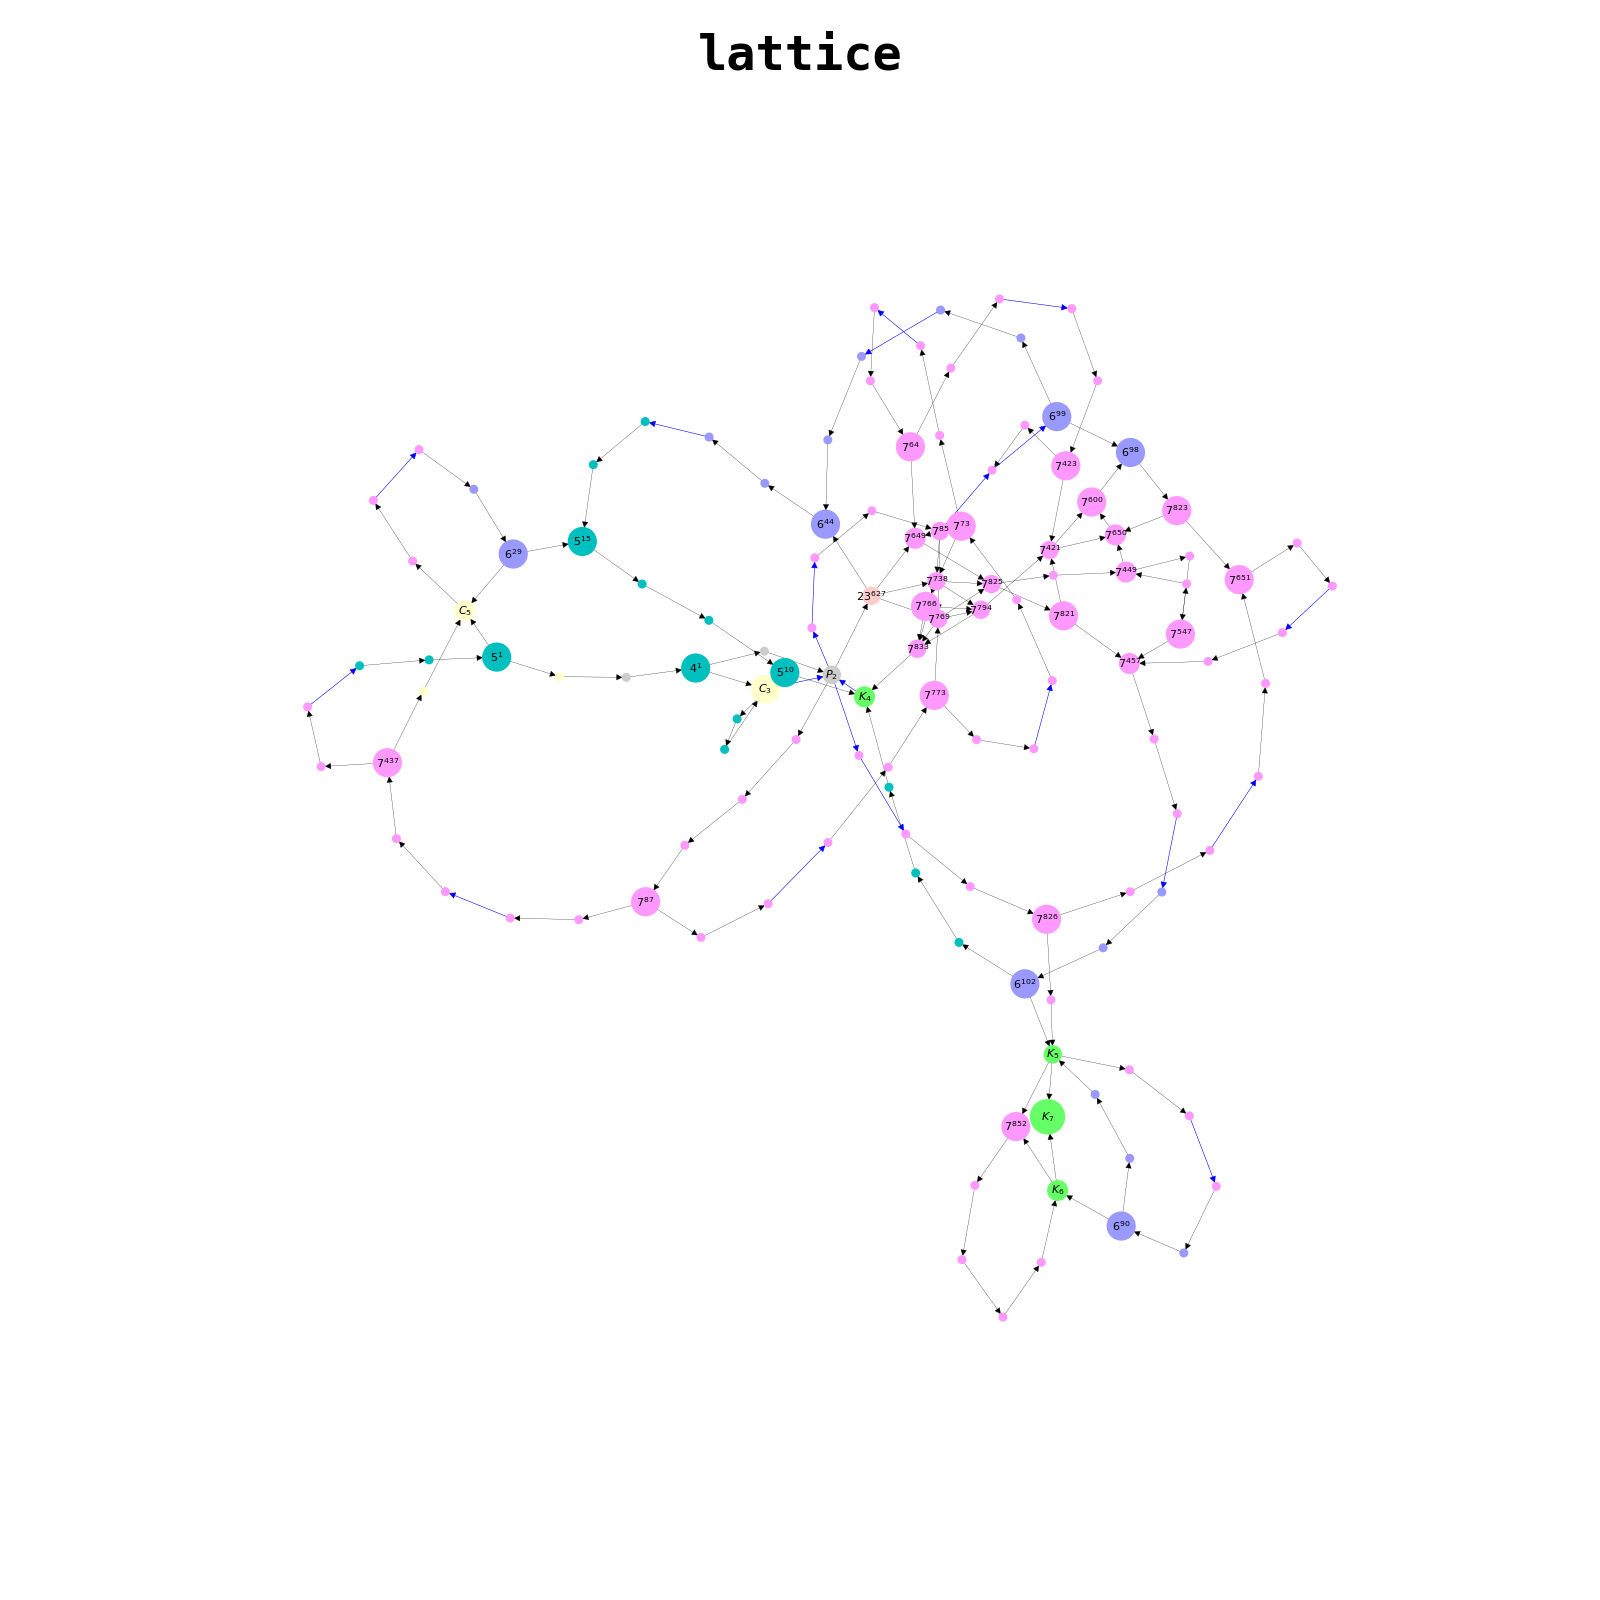
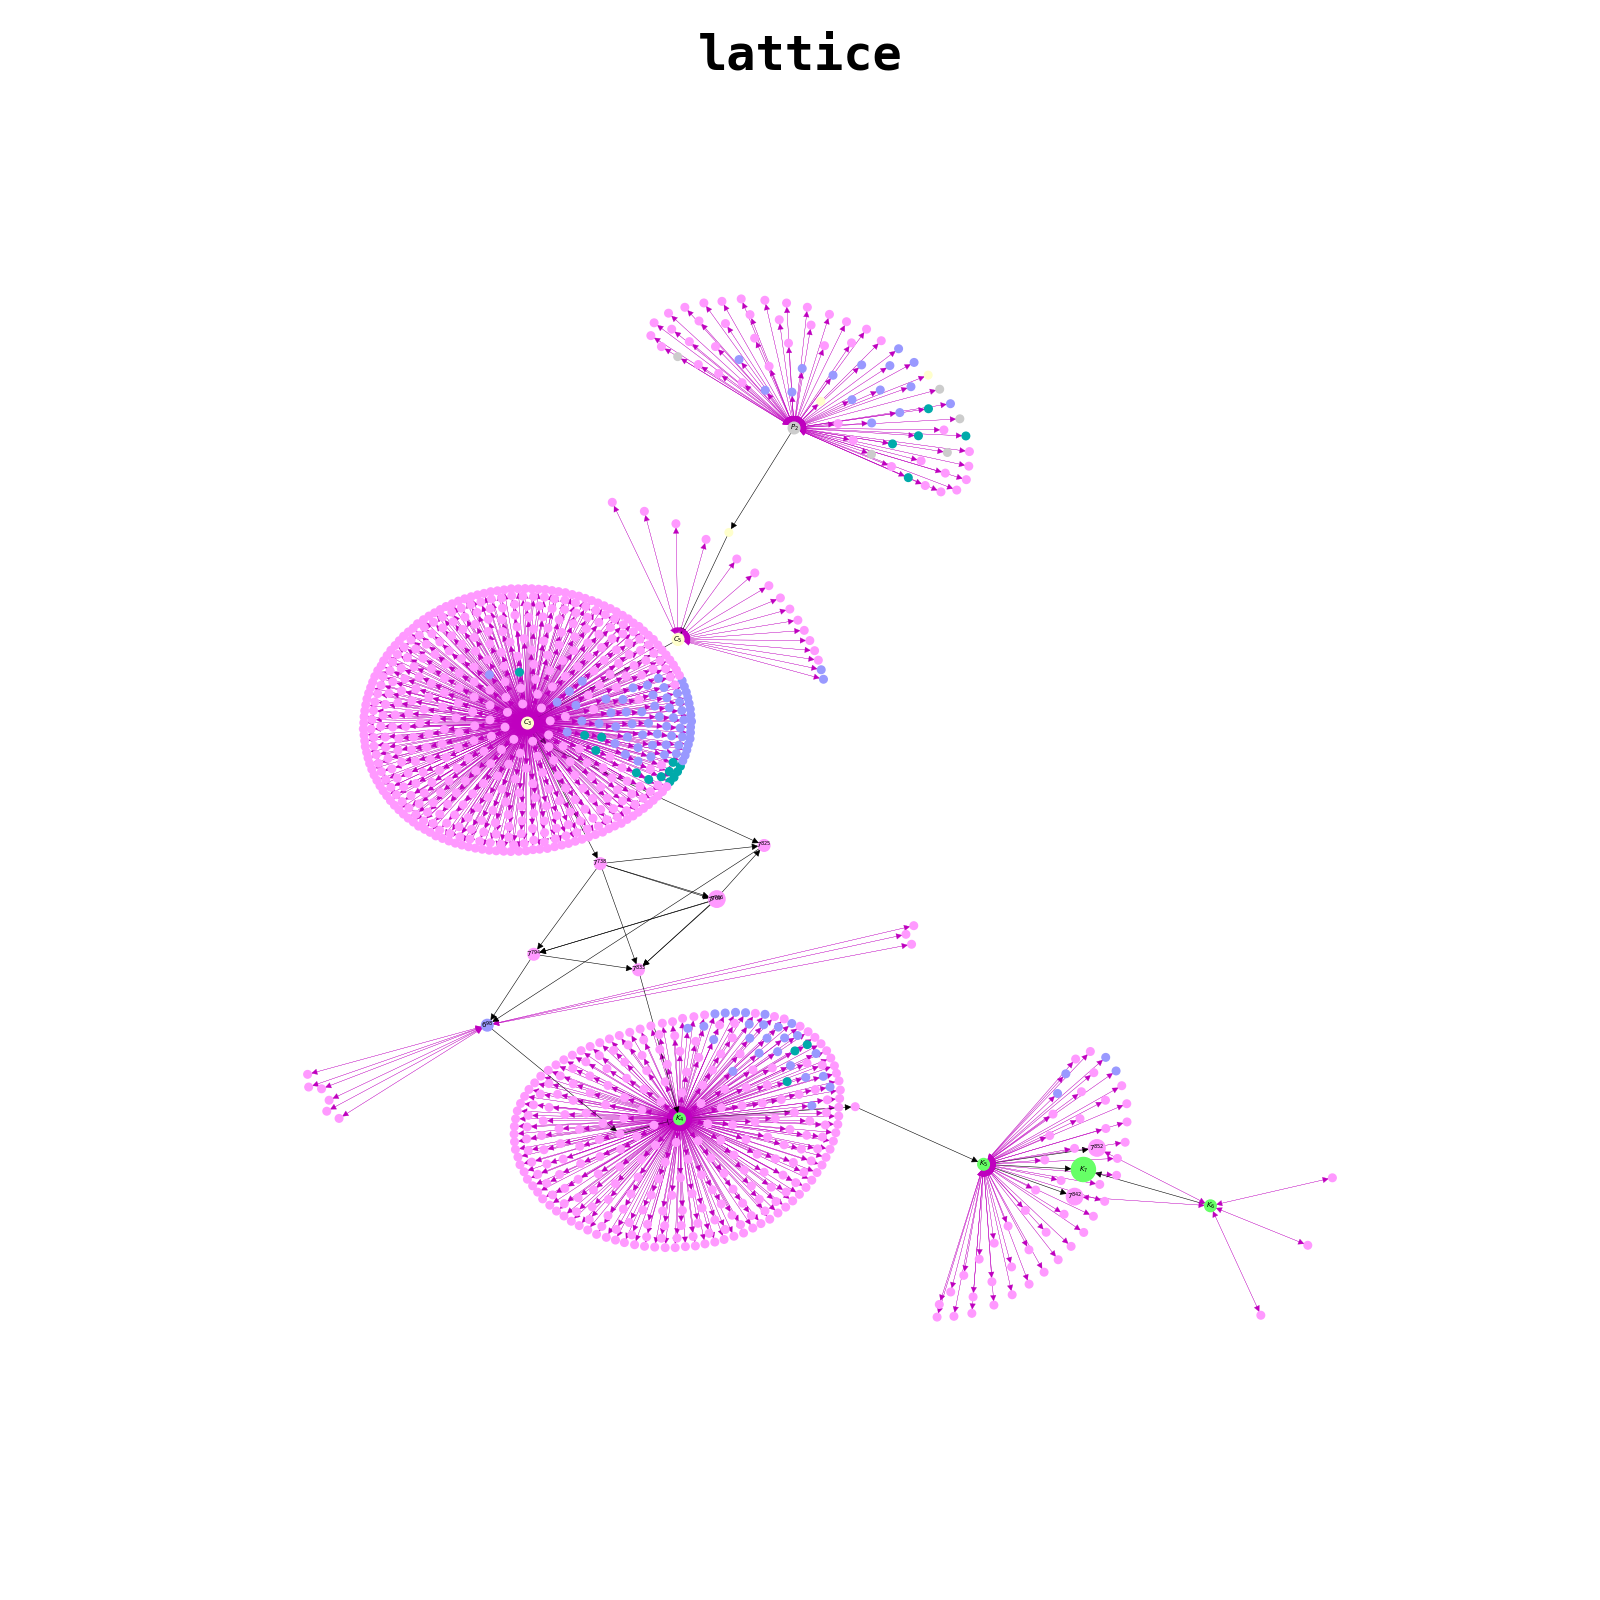
minor updates

diff --git a/lattice_utils.py b/lattice_utils.py
@@ -158,37 +158,37 @@ def node_color_func(label):
     return '#FFCCCC'
 
 
-def filter_important_nodes(g, label):
-    # fname = label
-    is_small = 'small_graphs' in os.path.dirname(label)
-    if not is_small and g.out_degree(label) == 1:
-        return False
-    #     return True
-    # n = int(os.path.basename(label).split('_')[1])
-    # if n <= 4:
-    #     return True
-    # with open(fname, 'r') as f:
-    #     G = deserialize_graph(f.read())
-        # if is_path(G) or is_complete(G):
-        #     return True
-    if g.in_degree(label) == 1 and g.out_degree(label) == 1:
-        return False
-    return True
+# def filter_important_nodes(g, label):
+#     # fname = label
+#     is_small = 'small_graphs' in os.path.dirname(label)
+#     if not is_small and g.out_degree(label) == 1:
+#         return False
+#     #     return True
+#     # n = int(os.path.basename(label).split('_')[1])
+#     # if n <= 4:
+#     #     return True
+#     # with open(fname, 'r') as f:
+#     #     G = deserialize_graph(f.read())
+#         # if is_path(G) or is_complete(G):
+#         #     return True
+#     if g.in_degree(label) == 1 and g.out_degree(label) == 1:
+#         return False
+#     return True
 
 
-def filter_important_nodes_neighborhood(g, nodelist, ndm):
-    max_distance = 2
-    for nd in nodelist:
-        if not nx.has_path(g, ndm, nd):
-            continue
-        if nx.shortest_path_length(g, ndm, nd) <= max_distance:
-            return True
-    for nd in nodelist:
-        if not nx.has_path(g, nd, ndm):
-            continue
-        if nx.shortest_path_length(g, nd, ndm) <= max_distance:
-            return True
-    return False
+# def filter_important_nodes_neighborhood(g, nodelist, ndm):
+#     max_distance = 2
+#     for nd in nodelist:
+#         if not nx.has_path(g, ndm, nd):
+#             continue
+#         if nx.shortest_path_length(g, ndm, nd) <= max_distance:
+#             return True
+#     for nd in nodelist:
+#         if not nx.has_path(g, nd, ndm):
+#             continue
+#         if nx.shortest_path_length(g, nd, ndm) <= max_distance:
+#             return True
+#     return False
 
 
 def plot_lattice(g, filename, **kwargs):
@@ -204,26 +204,27 @@ def plot_lattice(g, filename, **kwargs):
     new_g = g
 
     if len(nodelist) > 100:
-        nodelist = [nd for nd in g.nodes() if filter_important_nodes(g, nd)]
-        print('filtered significant nodes')
-        nodelist_neighborhood = [ndm for ndm in g.nodes()
-                                 if ndm in nodelist or (filter_important_nodes_neighborhood(g, nodelist, ndm)
-                                    and 'small_graphs' in ndm)]
+        nodelist = [nd for nd in g.nodes() if g.in_degree(nd) != 1 or g.out_degree(nd) != 1]
+        # nodelist = [nd for nd in g.nodes() if filter_important_nodes(g, nd)]
+        # print('filtered significant nodes')
+        # nodelist_neighborhood = [ndm for ndm in g.nodes()
+        #                          if ndm in nodelist or (filter_important_nodes_neighborhood(g, nodelist, ndm)
+        #                             and 'small_graphs' in ndm)]
 
-        new_g = g
-        for e in g.edges():
-            u, v = e
-            if v in nodelist_neighborhood:
-                continue
-            if new_g.has_edge(u, v):
-                new_g = nx.contracted_edge(new_g, e)
-        print('reduced insignificant loops')
+#         new_g = g
+#         for e in g.edges():
+#             u, v = e
+#             if v in nodelist_neighborhood:
+#                 continue
+#             if new_g.has_edge(u, v):
+#                 new_g = nx.contracted_edge(new_g, e)
+        # print('reduced insignificant loops')
 
     no_nodes = len(nodelist_neighborhood)
     fontsize = 9 - int(math.log(no_nodes, 5))
-    nodesize_min = 150 - 20 * int(math.log(no_nodes, 5))
-    nodesize_max = 700 - 100 * int(math.log(no_nodes, 5))
-    nodesize_step = 200 - 10 * int(math.log(no_nodes, 5))
+    # nodesize_min = 150 - 20 * int(math.log(no_nodes, 5))
+    # nodesize_max = 700 - 100 * int(math.log(no_nodes, 5))
+    # nodesize_step = 200 - 10 * int(math.log(no_nodes, 5))
     nx.draw_networkx(new_g,
                      arrows=True,
                      # pos=graphviz_layout(new_g),
@@ -238,8 +239,9 @@ def plot_lattice(g, filename, **kwargs):
                      alpha=1.,
                      node_color=[node_color_func(nd) for nd in nodelist_neighborhood],
                      # node_size=[500 for nd in nodelist_neighborhood],
-                     node_size=[(max(nodesize_min, nodesize_max - nodesize_step * (new_g.degree(nd) - 2)) if nd in nodelist else 30)
-                                for nd in nodelist_neighborhood],
+                     node_size = [(500 if nd in nodelist else 30) for nd in nodelist_neighborhood],
+                     # node_size=[(max(nodesize_min, nodesize_max - nodesize_step * (new_g.degree(nd) - 2)) if nd in nodelist else 30)
+                     #            for nd in nodelist_neighborhood],
                      edge_color=[('m' if g.has_edge(e[1], e[0]) else 'k') if g.has_edge(e[0], e[1]) else 'b' for e in new_g.edges()],
                      width=[(0.2 if g.has_edge(e[1], e[0]) else 0.4) if g.has_edge(e[0], e[1]) else 0.4 for e in new_g.edges()],
                      arrowstyle='-|>',

diff --git a/generate_small_graphs.py b/generate_small_graphs.py
@@ -12,7 +12,7 @@ from graph_dataset_utils import *
 if __name__ == '__main__':
     if not os.path.exists('./small_graphs/'):
         os.mkdir('small_graphs')
-        for i in range(2, 6+1):
+        for i in range(2, 8+1):
             filename = './graph%sc.g6' % i
             link = 'http://users.cecs.anu.edu.au/~bdm/data/graph%sc.g6' % i
             print('downloading dataset for graph_size=%s...' % i)
